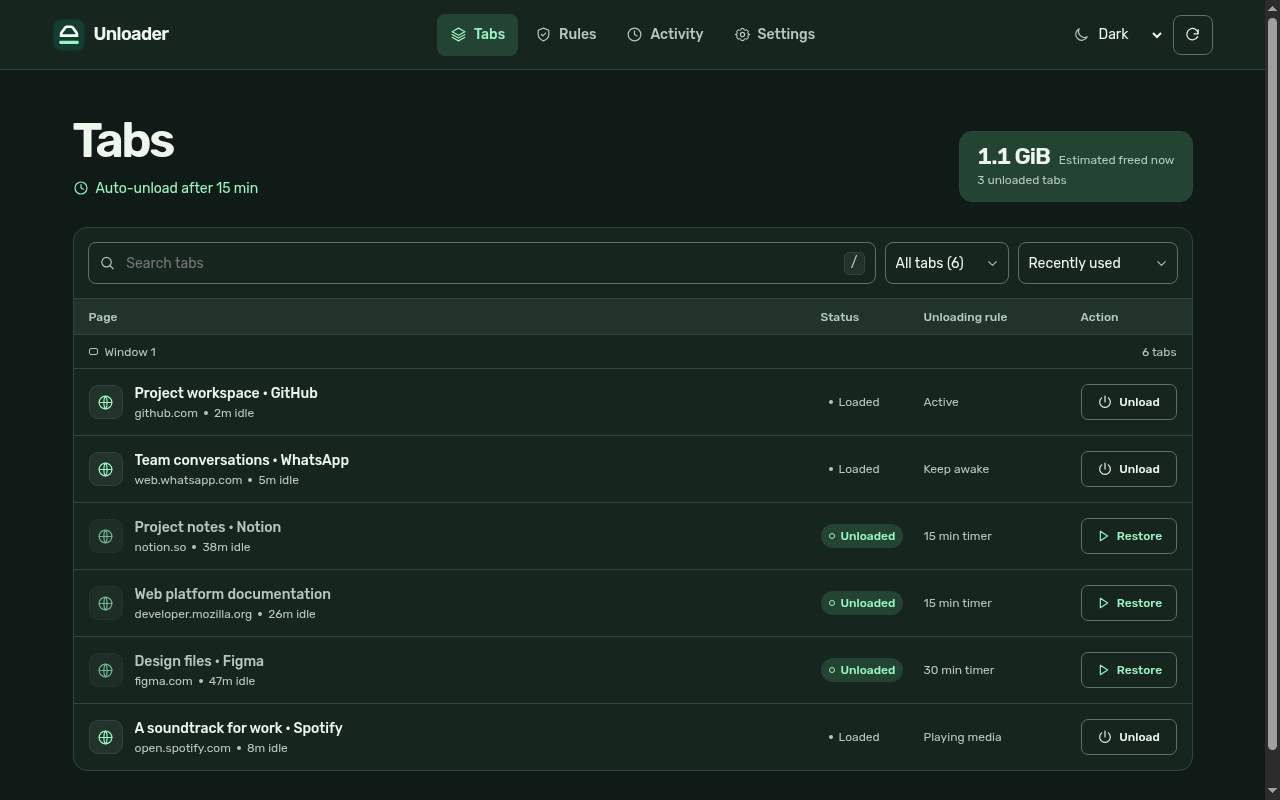
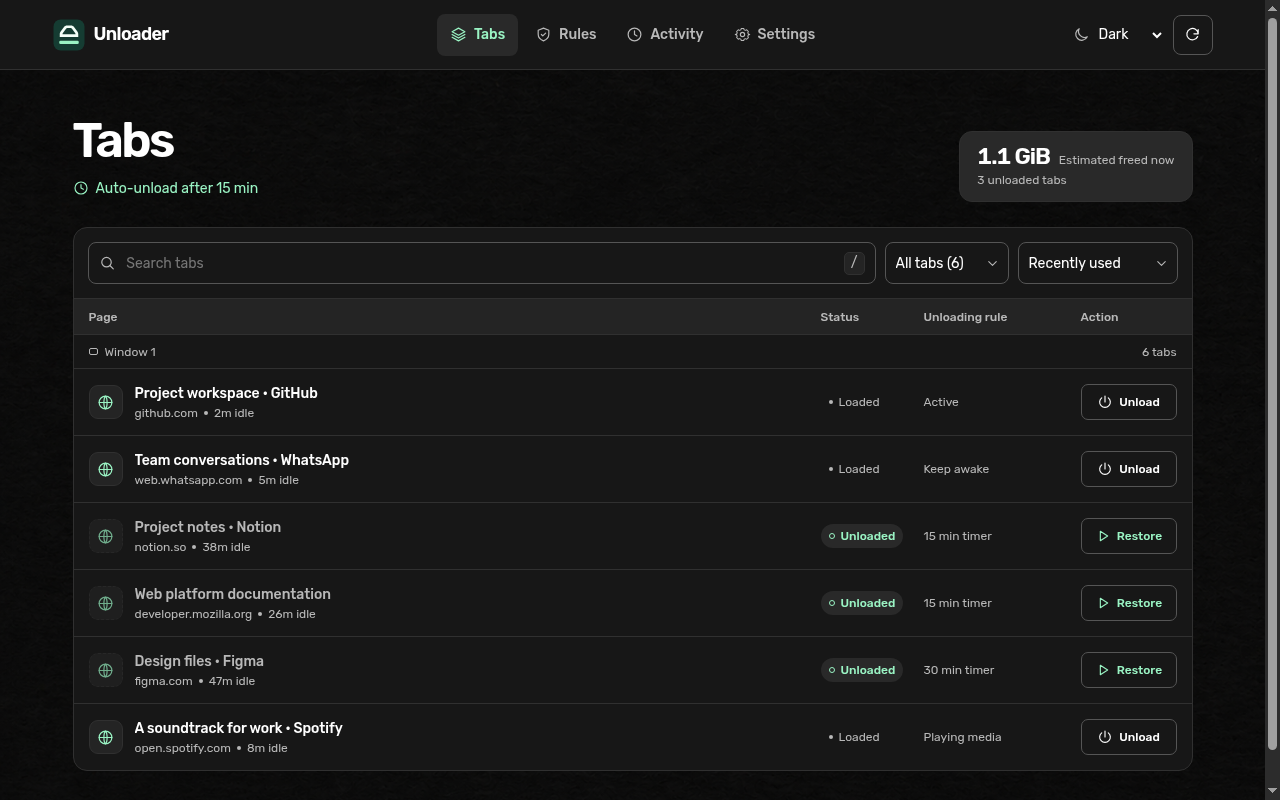
matched the dark texture theme for 0.4.1

diff --git a/next/app/globals.css b/next/app/globals.css
@@ -1,6 +1,6 @@
 * { box-sizing: border-box; }
 html { scroll-padding-top: 28px; }
-body { margin: 0; background: var(--page); color: var(--ink); font-family: var(--font-sans), sans-serif; font-size: 16px; line-height: 1.6; }
+body { margin: 0; background: var(--page) var(--page-image) center / cover fixed; color: var(--ink); font-family: var(--font-sans), sans-serif; font-size: 16px; line-height: 1.6; }
 button, input, select { font: inherit; }
 button, select { cursor: pointer; }
 a { color: inherit; text-decoration: none; }
@@ -49,18 +49,18 @@ main:focus { outline: none; }
 
 .demo { min-width: 0; margin: 0; }
 .demo-window {
-  --demo-ink: #f3fbf4;
-  --demo-muted: #c0d9ca;
-  --demo-line: #406453;
-  --demo-body: #173d30;
-  --demo-tint: #24543e;
+  --demo-ink: #ffffff;
+  --demo-muted: #b8b8b8;
+  --demo-line: #3a3a3a;
+  --demo-body: #171717;
+  --demo-tint: #242424;
   --demo-accent: #9af4c4;
   color: var(--demo-ink);
-  background: #102e24;
-  border: 1px solid #3c6853;
+  background: #101010;
+  border: 1px solid #3a3a3a;
   border-radius: 19px;
   overflow: hidden;
-  box-shadow: 0 25px 52px -25px #061e16a8;
+  box-shadow: 0 25px 52px -25px #00000080;
 }
 .demo-toolbar { display: grid; grid-template-columns: 1fr auto 1fr; align-items: center; gap: 8px; padding: 13px 17px 9px; font-size: 12px; color: var(--demo-muted); }
 .window-dots { display: flex; gap: 5px; }
@@ -68,9 +68,9 @@ main:focus { outline: none; }
 .window-dots i:nth-child(2) { background: #679780; }
 .window-dots i:nth-child(3) { background: #507865; }
 .demo-strip { display: flex; gap: 6px; padding: 0 13px; }
-.demo-tab { display: flex; align-items: center; gap: 7px; justify-content: center; flex: 0 1 120px; min-width: 0; padding: 7px 8px; border: 1px solid var(--demo-line); border-bottom: 0; border-radius: 8px 8px 0 0; background: #183b2e; color: var(--demo-muted); font-size: 12px; }
+.demo-tab { display: flex; align-items: center; gap: 7px; justify-content: center; flex: 0 1 120px; min-width: 0; padding: 7px 8px; border: 1px solid var(--demo-line); border-bottom: 0; border-radius: 8px 8px 0 0; background: #202020; color: var(--demo-muted); font-size: 12px; }
 .demo-tab.current { background: var(--demo-body); color: var(--demo-ink); }
-.demo-tab.resting { border-style: dashed; background: #102e24; }
+.demo-tab.resting { border-style: dashed; background: #101010; }
 .site-symbol { display: grid; place-items: center; flex: none; width: 28px; height: 28px; border-radius: 7px; font-size: 14px; font-weight: 600; color: #312b49; background: #e5d9ff; }
 .site-symbol.design { color: #46311a; background: #f6d598; }
 .site-symbol.chat { color: #163c2c; background: #b1edc9; }

diff --git a/extension/src/ui/theme.css b/extension/src/ui/theme.css
@@ -1,17 +1,18 @@
 /* Both apps build independently. Keep their shared theme tokens in sync. */
 :root {
   color-scheme: light;
-  --page: #f1f4ee;
-  --surface: #fbfcf8;
-  --surface-soft: #e9efe7;
-  --ink: #192c23;
-  --muted: #4e6357;
-  --subtle: #5d7064;
-  --line: #d5e0d7;
-  --line-strong: #a2b6aa;
+  --page: #f2f2f2;
+  --page-image: none;
+  --surface: #ffffff;
+  --surface-soft: #eeeeee;
+  --ink: #212121;
+  --muted: #555555;
+  --subtle: #666666;
+  --line: #d8d8d8;
+  --line-strong: #aaaaaa;
   --accent: #1a5945;
   --accent-hover: #134733;
-  --accent-tint: #deeee3;
+  --accent-tint: #eeeeee;
   --on-accent: #f8fff9;
   --success: #1e664b;
   --danger: #9c3131;
@@ -19,17 +20,18 @@
 }
 :root[data-theme="dark"] {
   color-scheme: dark;
-  --page: #101b17;
-  --surface: #17251f;
-  --surface-soft: #21332a;
-  --ink: #edf7ee;
-  --muted: #b3c9ba;
-  --subtle: #98afa1;
-  --line: #30463b;
-  --line-strong: #577464;
+  --page: #101010;
+  --page-image: url("/theme/dark-texture.png");
+  --surface: #171717;
+  --surface-soft: #242424;
+  --ink: #ffffff;
+  --muted: #b8b8b8;
+  --subtle: #a3a3a3;
+  --line: #303030;
+  --line-strong: #555555;
   --accent: #9af4c4;
   --accent-hover: #b5f8d3;
-  --accent-tint: #234333;
+  --accent-tint: #292929;
   --on-accent: #11281d;
   --success: #a9eec8;
   --danger: #ffb4af;
@@ -38,17 +40,18 @@
 @media (prefers-color-scheme: dark) {
   :root:not([data-theme="light"]) {
     color-scheme: dark;
-    --page: #101b17;
-    --surface: #17251f;
-    --surface-soft: #21332a;
-    --ink: #edf7ee;
-    --muted: #b3c9ba;
-    --subtle: #98afa1;
-    --line: #30463b;
-    --line-strong: #577464;
+    --page: #101010;
+    --page-image: url("/theme/dark-texture.png");
+    --surface: #171717;
+    --surface-soft: #242424;
+    --ink: #ffffff;
+    --muted: #b8b8b8;
+    --subtle: #a3a3a3;
+    --line: #303030;
+    --line-strong: #555555;
     --accent: #9af4c4;
     --accent-hover: #b5f8d3;
-    --accent-tint: #234333;
+    --accent-tint: #292929;
     --on-accent: #11281d;
     --success: #a9eec8;
     --danger: #ffb4af;

diff --git a/next/app/theme.css b/next/app/theme.css
@@ -1,17 +1,18 @@
 /* Both apps build independently. Keep their shared theme tokens in sync. */
 :root {
   color-scheme: light;
-  --page: #f1f4ee;
-  --surface: #fbfcf8;
-  --surface-soft: #e9efe7;
-  --ink: #192c23;
-  --muted: #4e6357;
-  --subtle: #5d7064;
-  --line: #d5e0d7;
-  --line-strong: #a2b6aa;
+  --page: #f2f2f2;
+  --page-image: none;
+  --surface: #ffffff;
+  --surface-soft: #eeeeee;
+  --ink: #212121;
+  --muted: #555555;
+  --subtle: #666666;
+  --line: #d8d8d8;
+  --line-strong: #aaaaaa;
   --accent: #1a5945;
   --accent-hover: #134733;
-  --accent-tint: #deeee3;
+  --accent-tint: #eeeeee;
   --on-accent: #f8fff9;
   --success: #1e664b;
   --danger: #9c3131;
@@ -19,17 +20,18 @@
 }
 :root[data-theme="dark"] {
   color-scheme: dark;
-  --page: #101b17;
-  --surface: #17251f;
-  --surface-soft: #21332a;
-  --ink: #edf7ee;
-  --muted: #b3c9ba;
-  --subtle: #98afa1;
-  --line: #30463b;
-  --line-strong: #577464;
+  --page: #101010;
+  --page-image: url("/theme/dark-texture.png");
+  --surface: #171717;
+  --surface-soft: #242424;
+  --ink: #ffffff;
+  --muted: #b8b8b8;
+  --subtle: #a3a3a3;
+  --line: #303030;
+  --line-strong: #555555;
   --accent: #9af4c4;
   --accent-hover: #b5f8d3;
-  --accent-tint: #234333;
+  --accent-tint: #292929;
   --on-accent: #11281d;
   --success: #a9eec8;
   --danger: #ffb4af;
@@ -38,17 +40,18 @@
 @media (prefers-color-scheme: dark) {
   :root:not([data-theme="light"]) {
     color-scheme: dark;
-    --page: #101b17;
-    --surface: #17251f;
-    --surface-soft: #21332a;
-    --ink: #edf7ee;
-    --muted: #b3c9ba;
-    --subtle: #98afa1;
-    --line: #30463b;
-    --line-strong: #577464;
+    --page: #101010;
+    --page-image: url("/theme/dark-texture.png");
+    --surface: #171717;
+    --surface-soft: #242424;
+    --ink: #ffffff;
+    --muted: #b8b8b8;
+    --subtle: #a3a3a3;
+    --line: #303030;
+    --line-strong: #555555;
     --accent: #9af4c4;
     --accent-hover: #b5f8d3;
-    --accent-tint: #234333;
+    --accent-tint: #292929;
     --on-accent: #11281d;
     --success: #a9eec8;
     --danger: #ffb4af;

diff --git a/next/app/layout.tsx b/next/app/layout.tsx
@@ -16,7 +16,7 @@ export const metadata: Metadata = {
 
 export default function Layout({ children }: { children: React.ReactNode }) {
   return <html lang="en" suppressHydrationWarning>
-    <head><Script id="theme-initializer" strategy="beforeInteractive">{`try{var t=localStorage.getItem("unloader-website-theme");document.documentElement.dataset.theme=t==="light"||t==="dark"?t:matchMedia("(prefers-color-scheme: dark)").matches?"dark":"light"}catch(e){}`}</Script></head>
+    <head><Script id="theme-initializer" strategy="beforeInteractive">{`try{var t=localStorage.getItem("unloader-website-theme");document.documentElement.dataset.theme=t==="system"?(matchMedia("(prefers-color-scheme: dark)").matches?"dark":"light"):t==="light"?"light":"dark"}catch(e){document.documentElement.dataset.theme="dark"}`}</Script></head>
     <body className={sans.variable}>
       <a className="skip-link" href="#main-content">Skip to content</a>
       <header className="nav">

diff --git a/next/app/ThemeSelect.tsx b/next/app/ThemeSelect.tsx
@@ -8,12 +8,12 @@ const storageKey = "unloader-website-theme";
 function readTheme(): Theme {
   try {
     const stored = localStorage.getItem(storageKey);
-    return stored === "light" || stored === "dark" ? stored : "system";
-  } catch { return "system"; }
+    return stored === "light" || stored === "dark" || stored === "system" ? stored : "dark";
+  } catch { return "dark"; }
 }
 
 export function ThemeSelect() {
-  const [theme, setTheme] = useState<Theme>("system");
+  const [theme, setTheme] = useState<Theme>("dark");
 
   useEffect(() => {
     const media = window.matchMedia("(prefers-color-scheme: dark)");

diff --git a/extension/src/ui/base.css b/extension/src/ui/base.css
@@ -7,7 +7,7 @@
   font-display: swap;
 }
 * { box-sizing: border-box; }
-body { margin: 0; background: var(--page); color: var(--ink); font-family: RubikLocal, sans-serif; font-size: 14px; line-height: 1.5; }
+body { margin: 0; background: var(--page) var(--page-image) center / cover fixed; color: var(--ink); font-family: RubikLocal, sans-serif; font-size: 14px; line-height: 1.5; }
 button, input, select { font: inherit; }
 button, select { cursor: pointer; }
 button { color: inherit; }

diff --git a/extension/src/background/policy.ts b/extension/src/background/policy.ts
@@ -3,7 +3,7 @@ import type { SafetySignals, Settings, SiteRule, Theme } from "../shared/types";
 export const DEFAULT_SETTINGS: Settings = {
   globalIdleMinutes: 15,
   siteRules: {},
-  theme: "system",
+  theme: "dark",
 };
 
 export interface ResolvedPolicy {

diff --git a/extension/REVIEW.md b/extension/REVIEW.md
@@ -1,12 +1,12 @@
 # Mozilla review build instructions
 
-Unloader 0.4.0 is built from TypeScript and React with WXT/Vite. No remote code or external runtime service is used.
+Unloader 0.4.1 is built from TypeScript and React with WXT/Vite. No remote code or external runtime service is used.
 
 1. Install Node.js 24.15 or newer and npm.
 2. Extract this source archive and open a terminal in its root.
 3. Run `npm ci`.
 4. Run `npm run build:firefox`.
-5. The installable extension files are in `.output/firefox-mv2/`. The generated `manifest.json` belongs at the ZIP root. Run `npm run zip:firefox` to reproduce `.output/unloader-0.4.0-firefox.zip`.
+5. The installable extension files are in `.output/firefox-mv2/`. The generated `manifest.json` belongs at the ZIP root. Run `npm run zip:firefox` to reproduce `.output/unloader-0.4.1-firefox.zip`.
 
 The lockfile pins dependencies. The package includes a local Node 24 runtime for WXT. The bundled Rubik WOFF2 font and its license are in `src/ui/assets`. Icons are project assets in `public/icon`.
 
